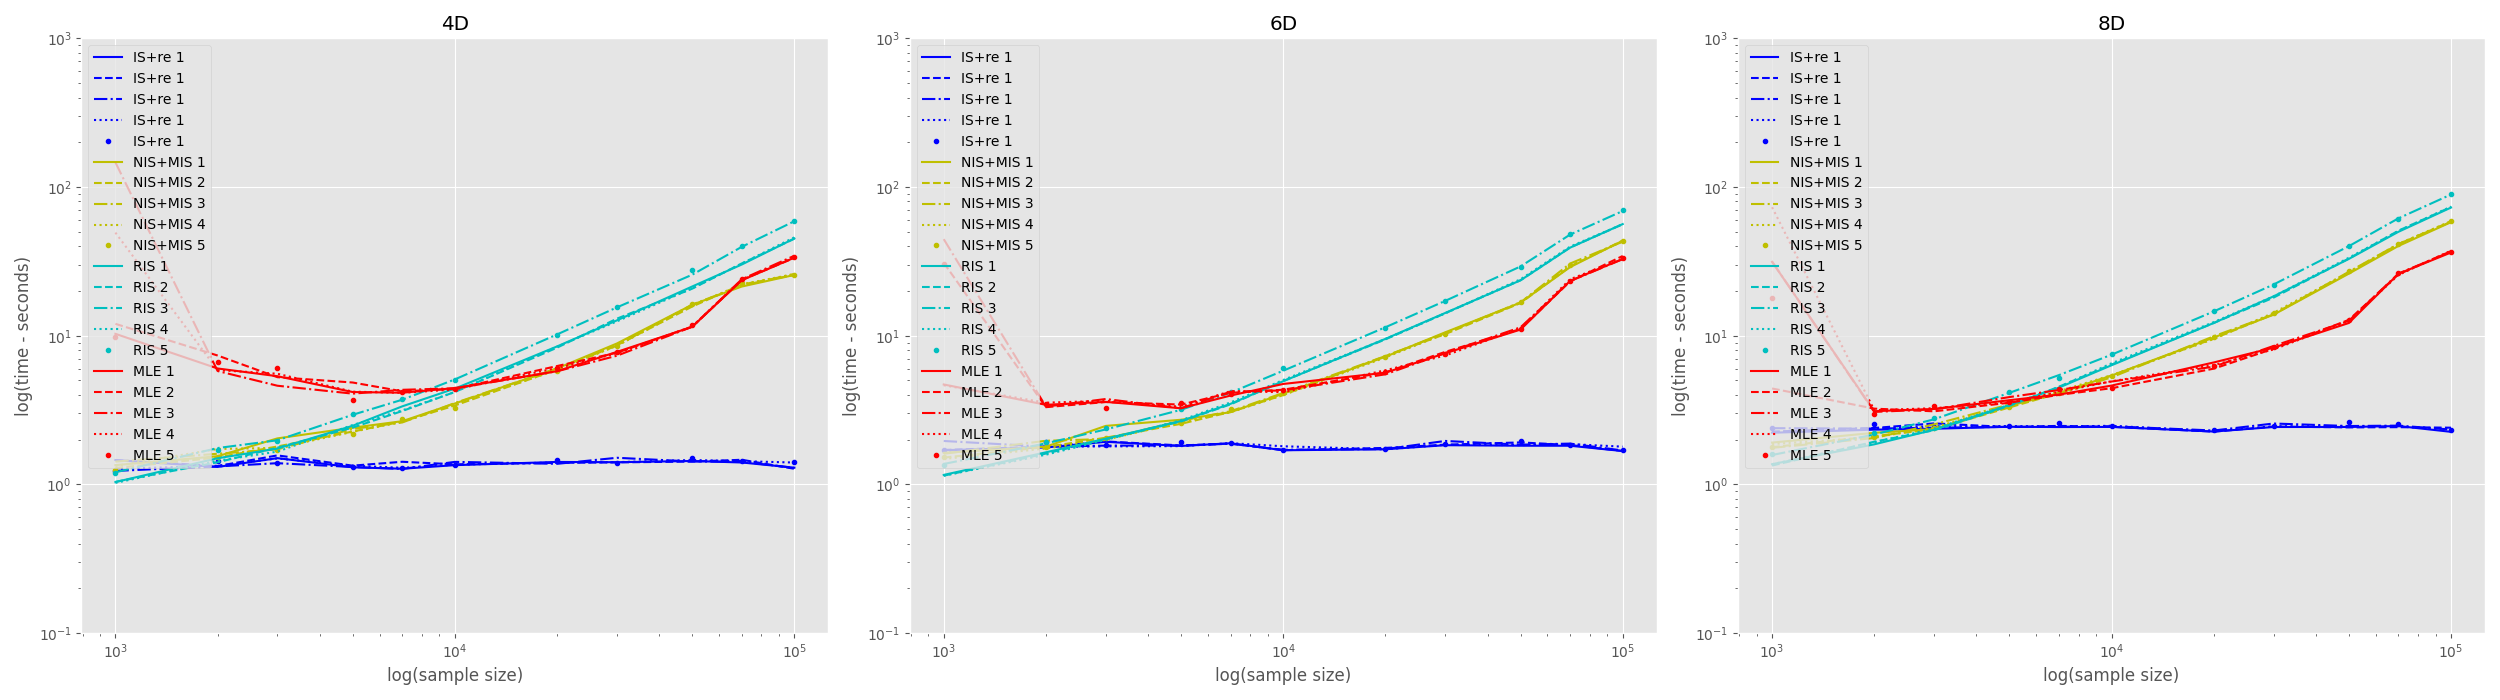
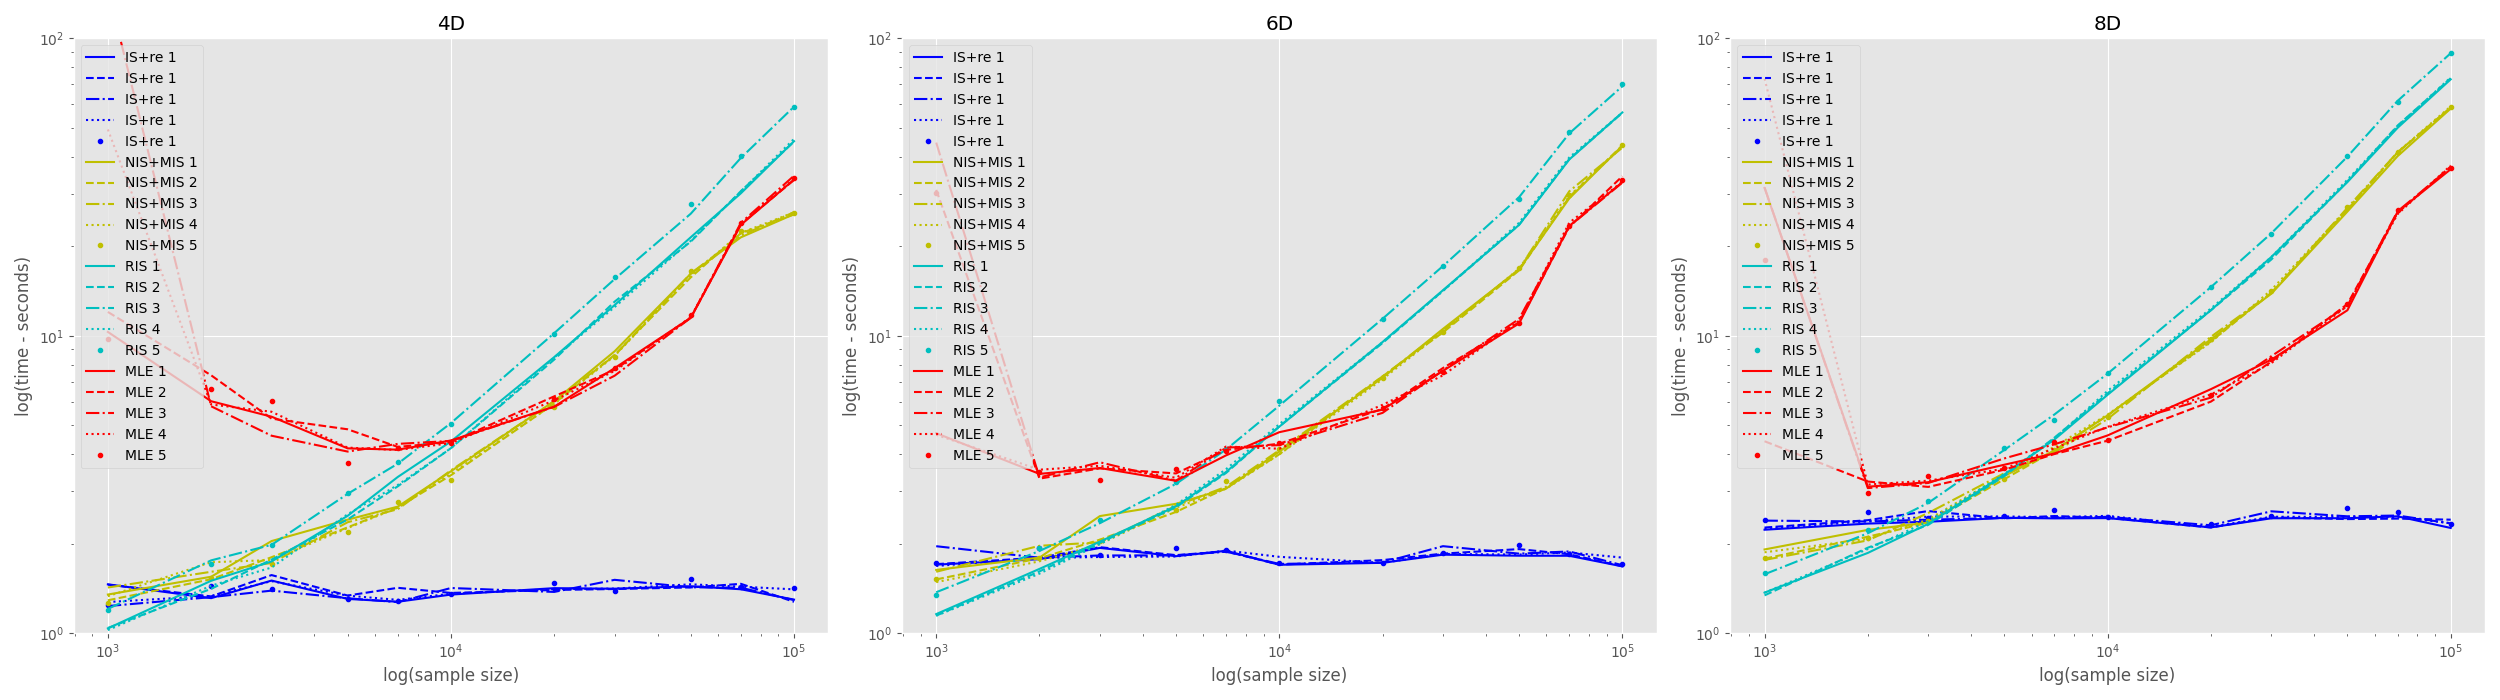
abc

diff --git a/niscv/analysis/time consuming (A).py b/niscv/analysis/time consuming (A).py
@@ -48,7 +48,7 @@ def main(dim, ax, name):
     ax.legend()
     ax.set_xlabel('log(sample size)')
     ax.set_ylabel('log(time - seconds)')
-    ax.set_ylim([0.1, 1000])
+    ax.set_ylim([1, 100])
     ax.set_title(name)
     return result
 
